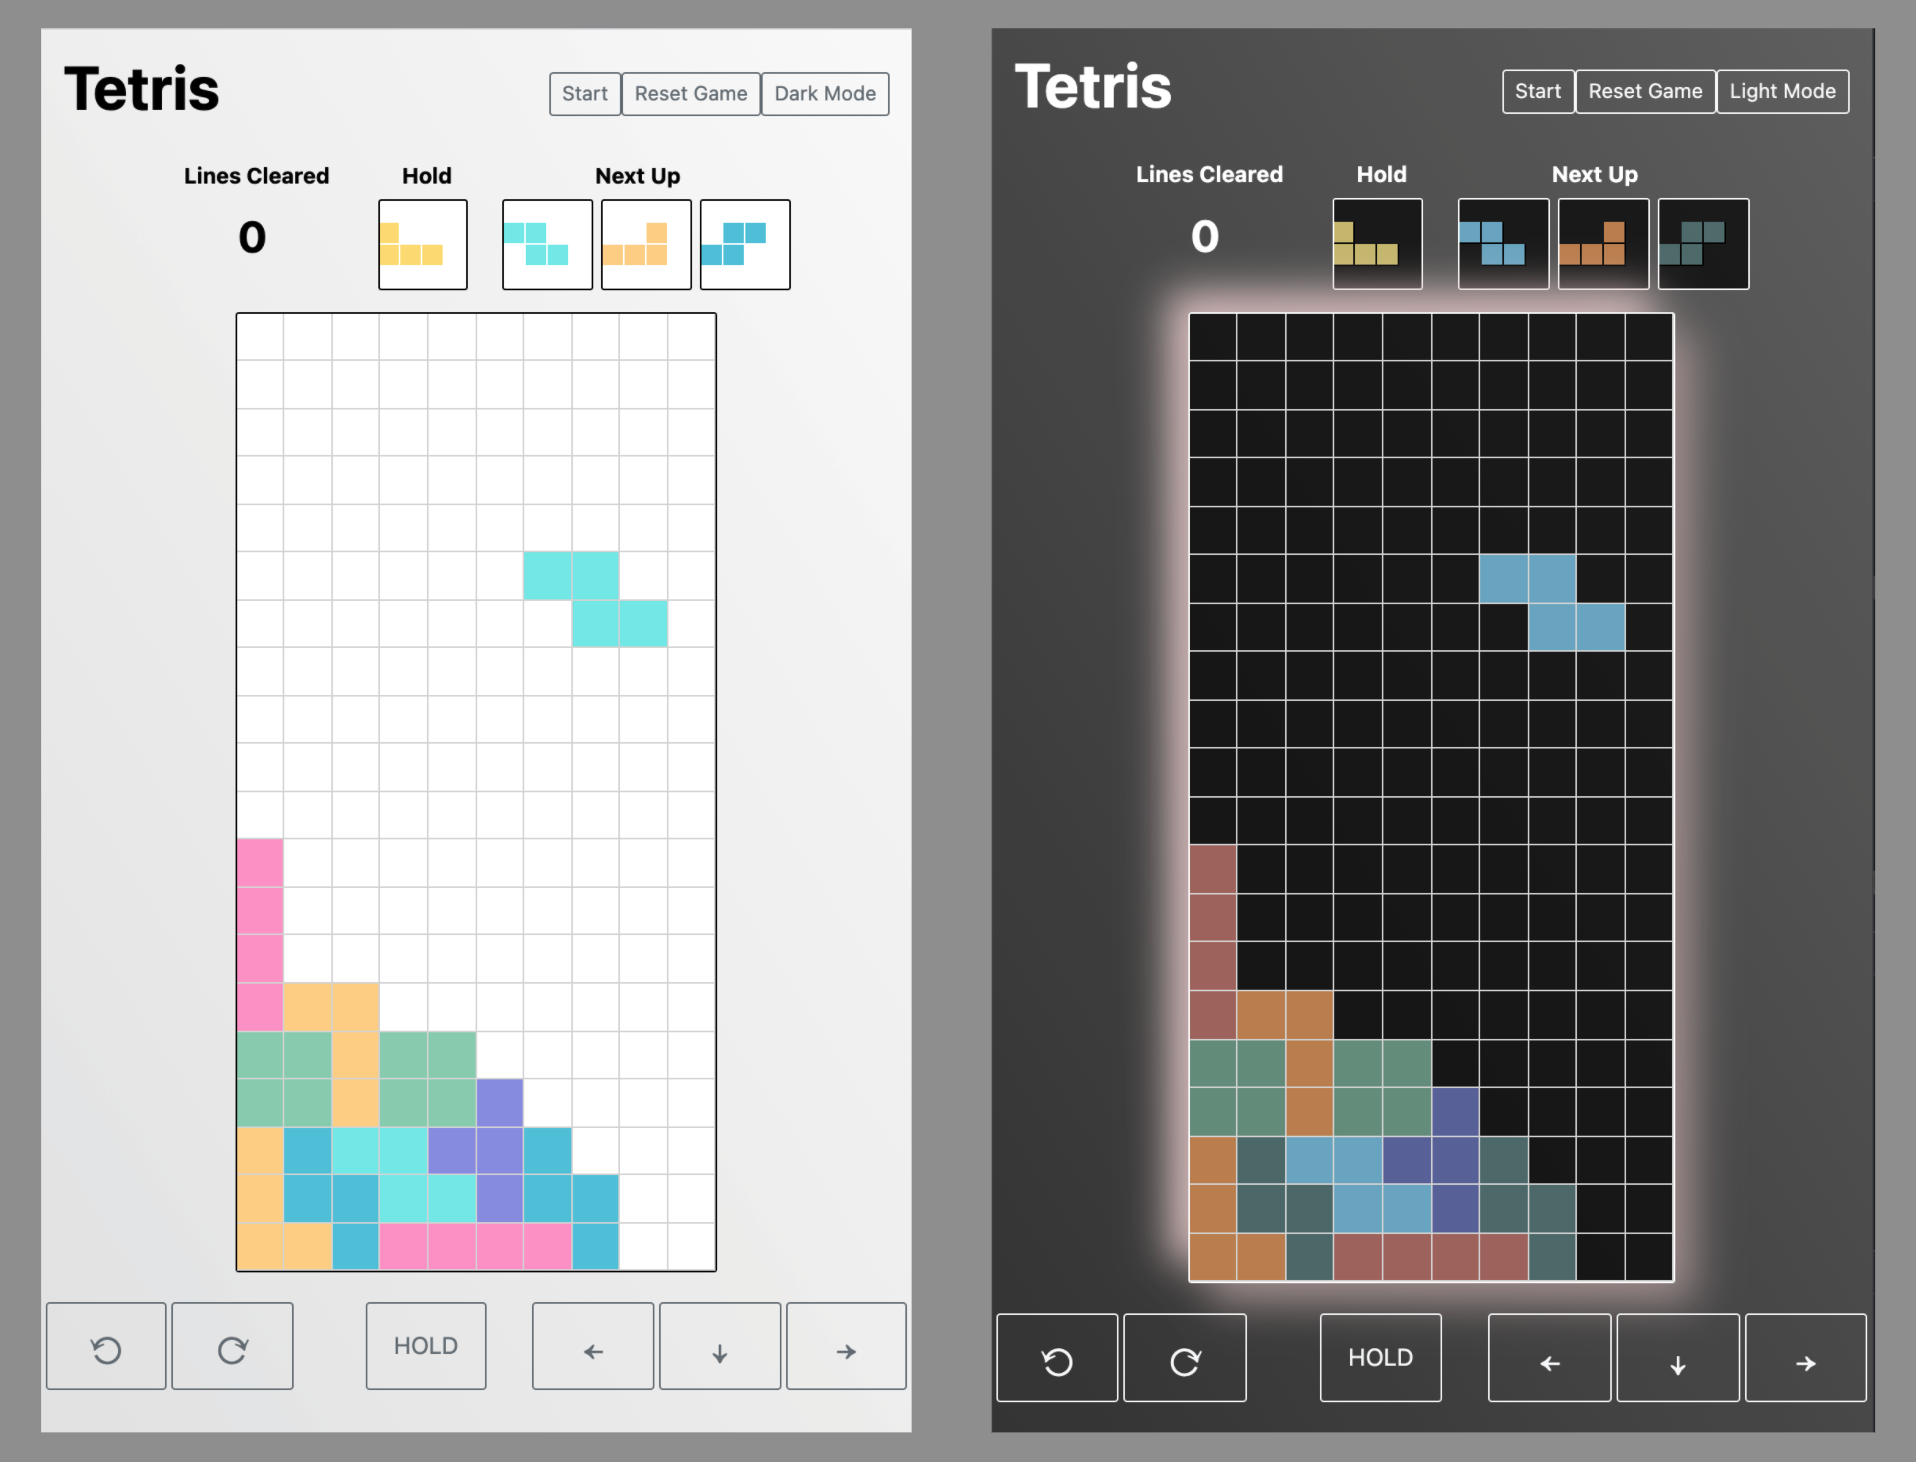
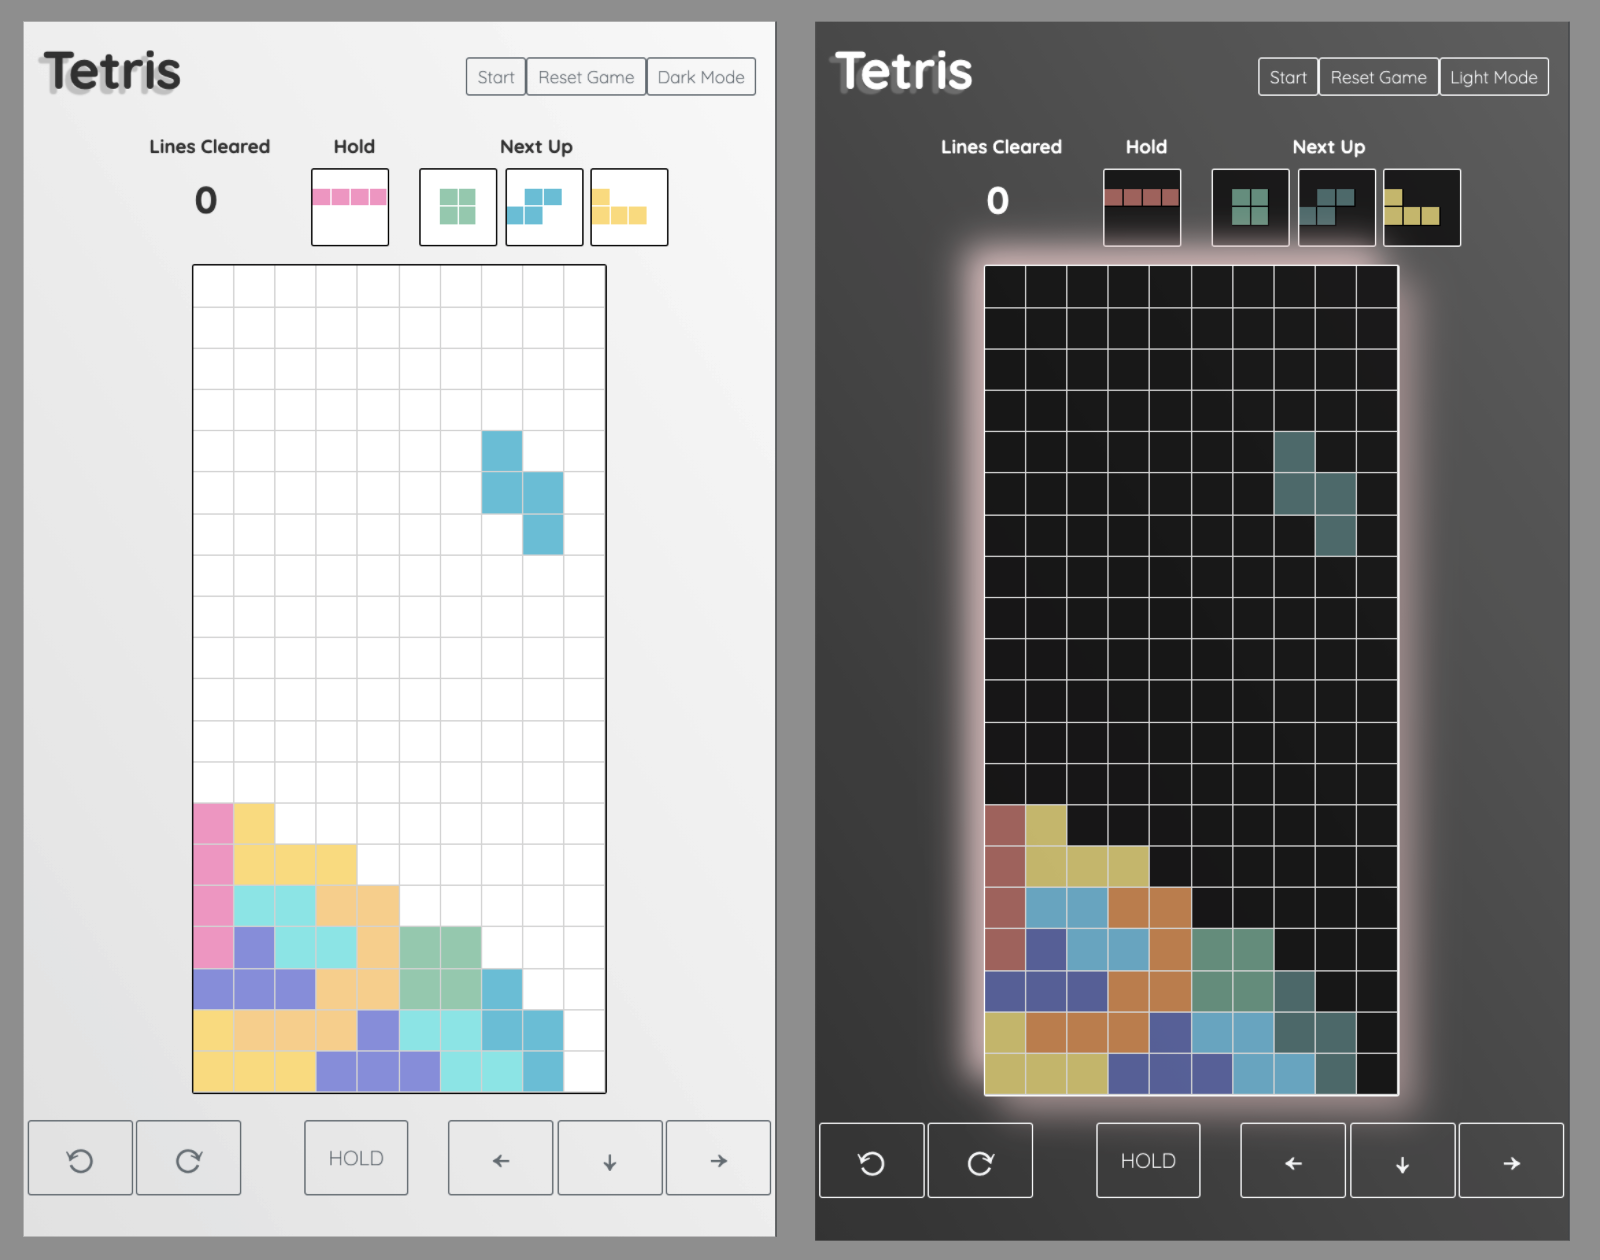
update images on README.md

Changed region(s): [[0.0, 0.0, 1.0, 0.9905], [0.0938, 0.4024, 0.1875, 0.4333], [0.0938, 0.3095, 0.125, 0.3714]]

diff --git a/css/style.css b/css/style.css
@@ -1,3 +1,5 @@
+@import url('https://fonts.googleapis.com/css2?family=Quicksand:wght@300;700&display=swap');
+
 html {
     box-sizing: border-box
   }
@@ -14,13 +16,14 @@ html {
   /* resets font size to be 62.5% of the user preference - 
      in most browser configurations this will be 10px */
   :root {
-    font-size: 62.5%
+    font-size: 62.5%;
   }
   
   .light {
     --background: white;
     --background-image: linear-gradient(to left bottom, #ffffff, #f7f7f7, #f0f0f0, #e8e8e8, #e1e1e1);
-    --text-color: black;
+    --text-color: rgba(41, 41, 41, 0.925);
+    --text-shadow: -4px 4px 1px rgb(199, 199, 199);
 
     --i-block-color: #ff9bcd;
     --l-block-color: #ffc96cd0;
@@ -49,6 +52,7 @@ html {
     --background: rgb(0, 0, 0);
     --background-image: linear-gradient(to right top, #303030, #404040, #525252, #646464, #767676);
     --text-color: white;
+    --text-shadow: -4.5px 3.5px 1px rgb(119, 119, 119);
 
     --i-block-color: #aa6d65;
     --l-block-color: #c48851;
@@ -73,31 +77,6 @@ html {
     --game-over-border: 1px solid gray;
 
   }
-  .other {
-    --background: black;
-    --background-image: linear-gradient(to right top, #303030, #404040, #525252, #646464, #767676);
-    --text-color: white;
-
-    --i-block-color: #e7bebe;
-    --l-block-color: #dabd93;
-    --reverse-l-block-color: #f3eca8;
-    --square-block-color: #96dba0e5;
-    --z-block-color: #a0e5e5dc;
-    --reverse-z-block-color: #87aed4e3;
-    --t-block-color: #b1aae9e8;
-
-    --block-border: 0.1rem solid white;
-    --block-holder-border: .5px solid black;
-    --block-holder-color: rgba(31, 31, 31, 0.932);
-
-    --board-container-border: 1px solid black;
-    --grid-line-color: 0.1rem solid rgb(216, 216, 216);
-
-    --game-over-box-color: rgba(226, 226, 226, 0.8);
-    --game-over-text-color: rgb(49, 49, 49);
-    --game-over-border: 1px solid gray;
-
-  }
 
   body {
     text-align: center;
@@ -113,8 +92,7 @@ html {
     align-items: center;
     align-content: center;
   /* Use a system font, if none are available use an available sans-sarif   font */
-    font-family: system-ui, -apple-system, BlinkMacSystemFont, "Segoe UI",
-      Roboto, Oxygen-Sans, Ubuntu, Cantarell, "Helvetica Neue", sans-serif;
+    font-family: 'Quicksand', sans-serif;
     color: var(--text-color);
     margin: 0;
   }
@@ -131,8 +109,6 @@ html {
     margin-top: 3vmin;
   }
   
-  
-
   #title-container{
     display: flex;
     flex-flow: row nowrap;
@@ -147,6 +123,7 @@ html {
   #game-name{
     font-weight: bold;
     font-size: 7vmin;
+    text-shadow: var(--text-shadow);
   }
 
   #settings-container > *{
@@ -156,13 +133,6 @@ html {
   #reset-button{
     font-size: 2.3vmin;
   }
-
-
-/* 
-  #controls-panel{
-    font-size: 5rem;
-    border-radius: 20;
-  } */
 
   #button-container{
     width: 100%;
@@ -200,10 +170,10 @@ html {
     justify-content: space-evenly;
     margin-left: 3vmin;
   }
+
   #hold-container{
     margin-left: 3vmin;
   }
-
 
   #board-container {
     display: inline-grid;
@@ -225,22 +195,27 @@ html {
     text-align: center;
 
   }  
+
   #arrows-container {
     margin: 0.5vmin 0.5vmin 0.5vmin 0.5vmin;
   }
+
   #arrows-container > *{
     font-size: 5vmin;
     width: 14vmin;
     height: 10vmin;
   }
+
   #rotators-container {
     margin: 0.5vmin 0.5vmin 0.5vmin 0.5vmin;
   }
+
   #rotators-container >*{
     font-size: 4.2vmin;
     width:  14vmin;
     height: 10vmin;
   }
+
   #hold-button {
     font-size: 2.7vmin;
     width: 14vmin;
@@ -270,16 +245,19 @@ html {
     border-bottom: var(--block-border);
 
   }
+
   .reverselblock {
     background-color: var(--reverse-l-block-color);
     border-right: var(--block-border);
     border-bottom: var(--block-border)
   }
+
   .squareblock {
     background-color: var(--square-block-color);
     border-right: var(--block-border);
     border-bottom: var(--block-border)
   }
+  
   .iblock {
     background-color: var(--i-block-color);
     border-right: var(--block-border);

diff --git a/README.md b/README.md
@@ -23,6 +23,10 @@ This game uses the following keyboard inputs
 - HTML
 - CSS
 - Javascript
+- Bootstrap
+#
+![Desktop Light Mode](assets/images/light.png)
+![Desktop Dark Mode](assets/images/dark.png)
 #
 ## Next Steps/ Future Enhancements
 - [ ] Fix color blocks when lines clear
